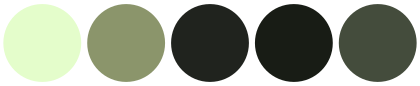
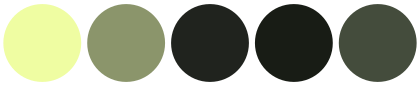
minor fixes

Changed region(s): [[0.0, 0.0465, 0.2167, 0.9535]]

diff --git a/colorschemes/yellow.css b/colorschemes/yellow.css
@@ -1,6 +1,6 @@
 /* Yellow color scheme */
 
-:root {--accent: 228, 253, 203;}         /* #E4FDCB */
+:root {--accent: 239, 253, 162;}         /* #EFFDA2 */
 :root {--accent-off: 139, 149, 107;}     /* #8B956B */
 :root {--dark: 32, 35, 30;}              /* #20231E */
 :root {--darkest: 24, 28, 21;}           /* #181C15 */